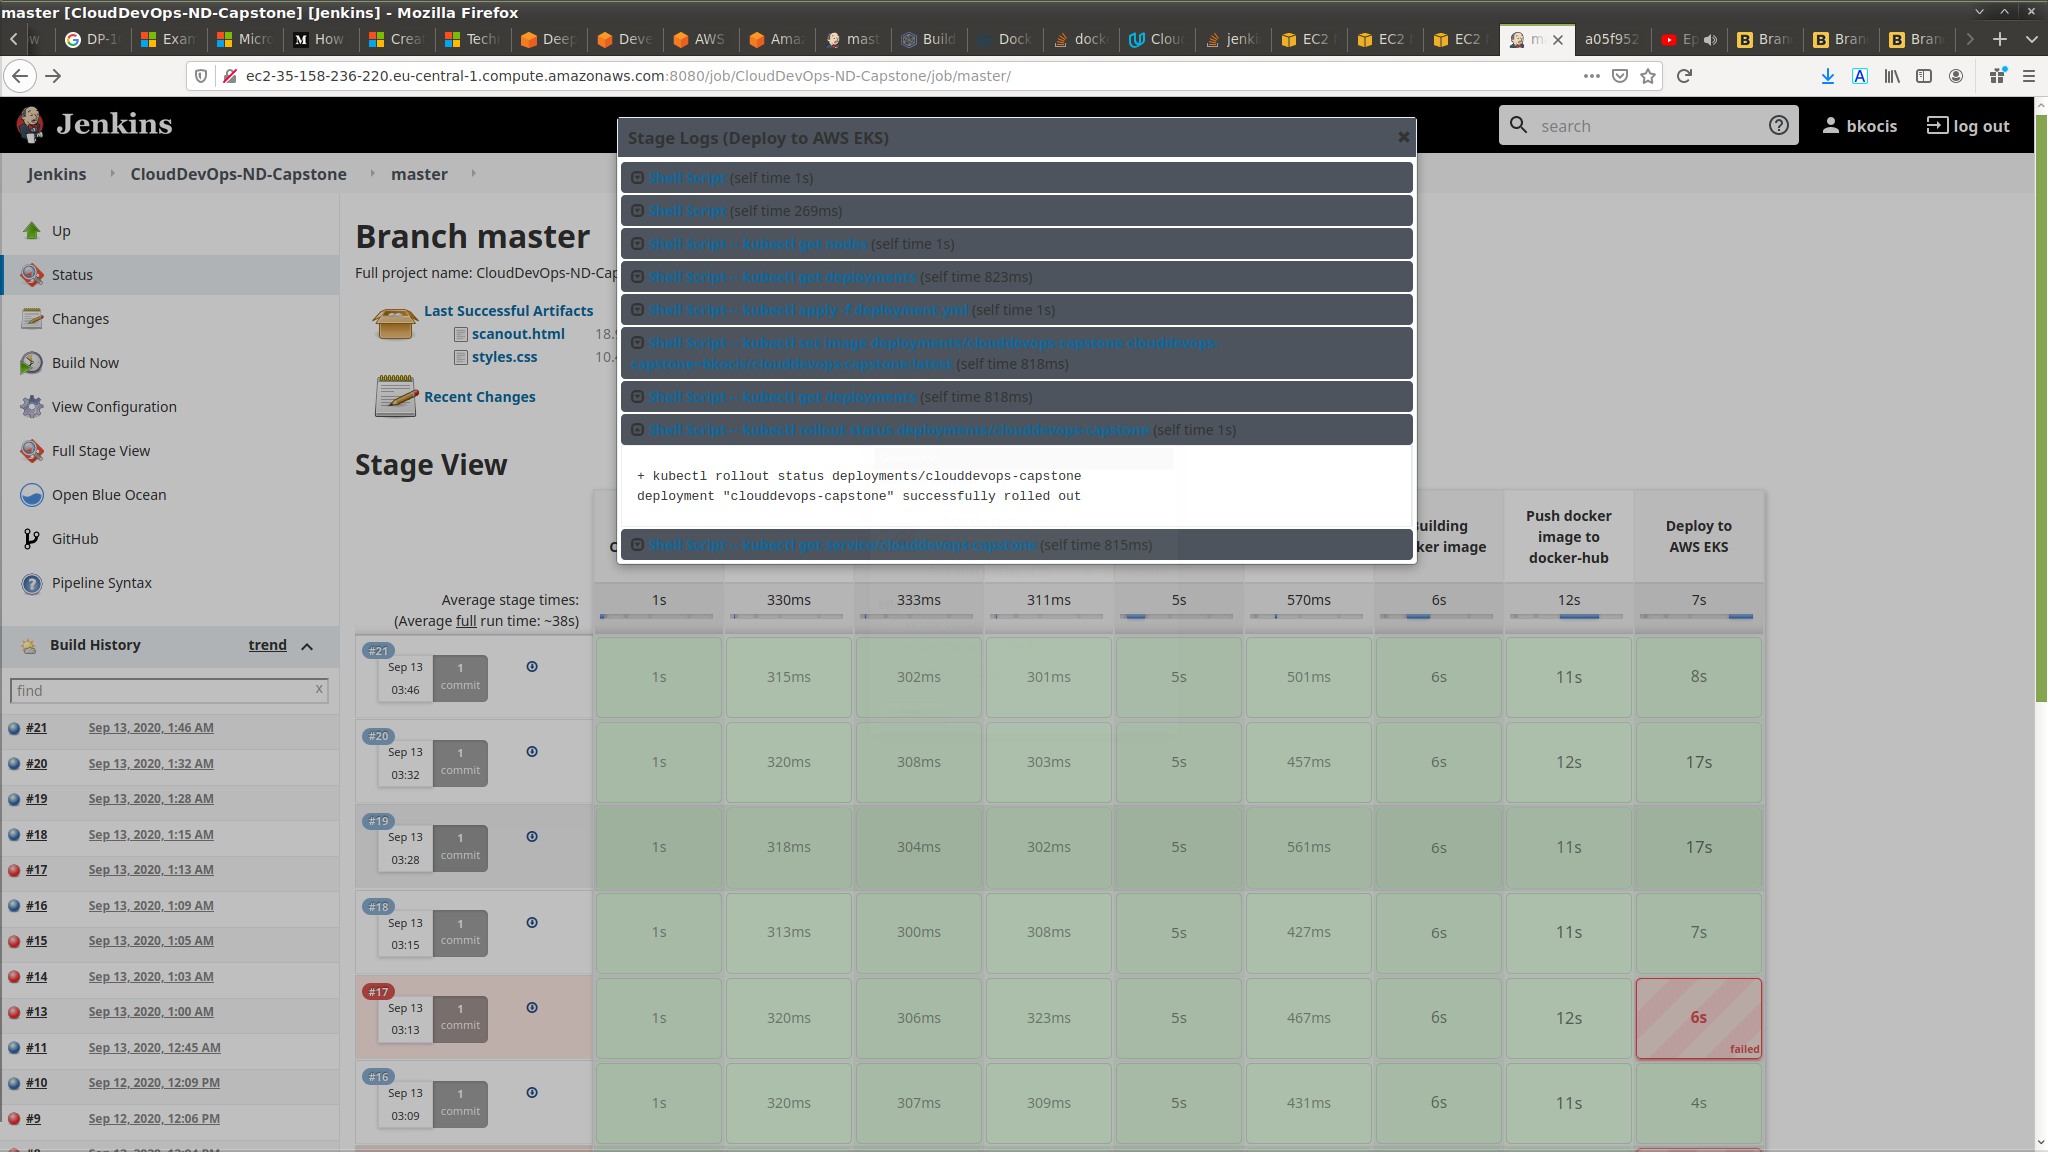
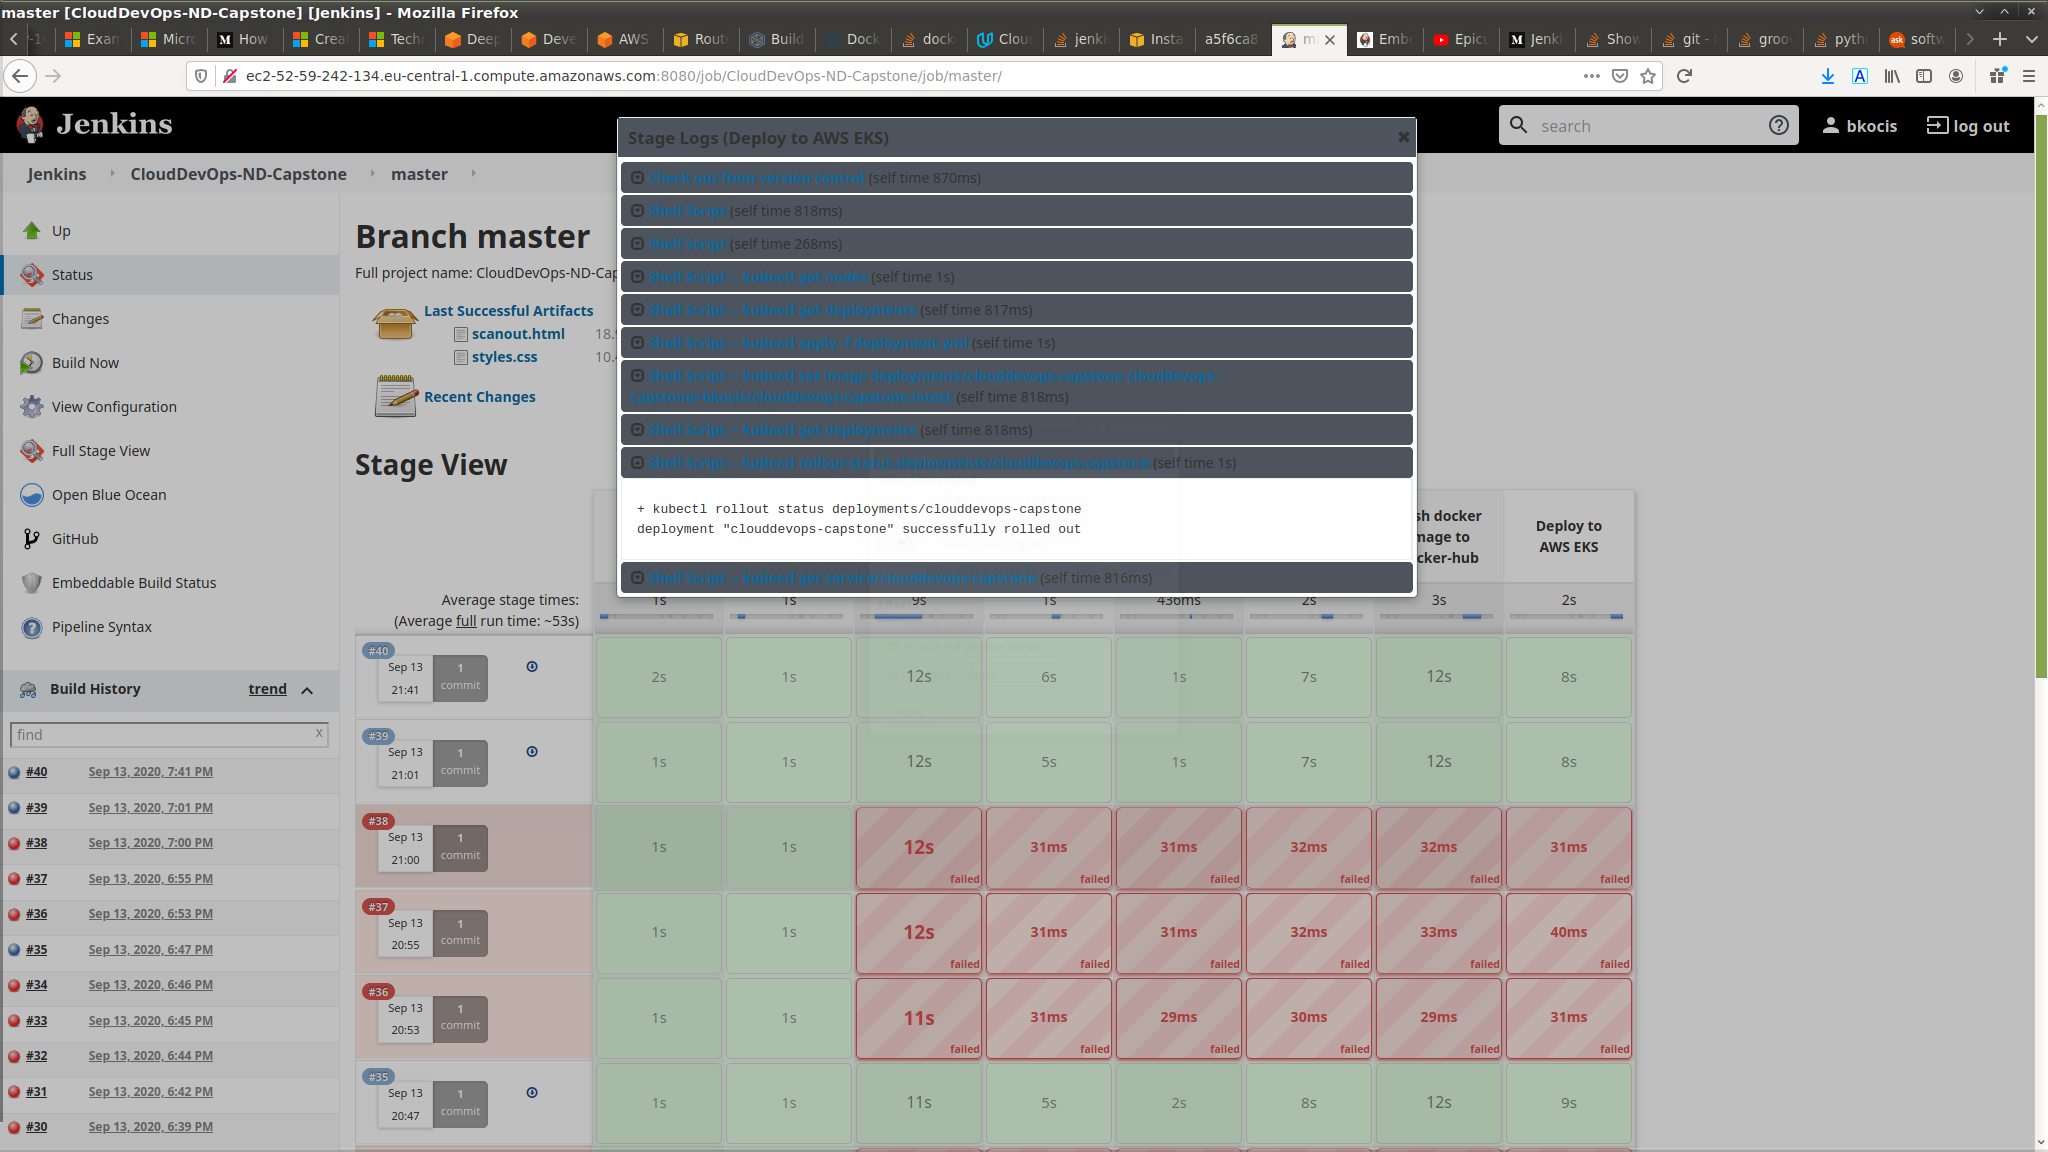
readme finalization

diff --git a/README.md b/README.md
@@ -1,9 +1,9 @@
 
-[![Build Status](http://ec2-3-127-81-170.eu-central-1.compute.amazonaws.com:8080/buildStatus/icon?job=CloudDevOps-ND-Capstone%2Fmaster)](http://ec2-3-127-81-170.eu-central-1.compute.amazonaws.com:8080/job/CloudDevOps-ND-Capstone/job/master/)
+[![Build Status](http://http://ec2-52-59-242-134.eu-central-1.compute.amazonaws.com:8080/buildStatus/icon?job=CloudDevOps-ND-Capstone%2Fmaster)](http://http://ec2-52-59-242-134.eu-central-1.compute.amazonaws.com:8080/job/CloudDevOps-ND-Capstone/job/master/)
 
-[![Build Status](http://ec2-3-127-81-170.eu-central-1.compute.amazonaws.com:8080/job/CloudDevOps-ND-Capstone/job/master/badge/icon?)](http://ec2-3-127-81-170.eu-central-1.compute.amazonaws.com:8080/job/CloudDevOps-ND-Capstone/job/master/)
+[![Build Status](http://http://ec2-52-59-242-134.eu-central-1.compute.amazonaws.com:8080/job/CloudDevOps-ND-Capstone/job/master/badge/icon?)](http://http://ec2-52-59-242-134.eu-central-1.compute.amazonaws.com:8080/job/CloudDevOps-ND-Capstone/job/master/)
 
-# Kubernetes-Docker-Jenkins-AWS deployment
+# Deploying a containerised flask app on AWS Elastic Kubernetes Service 
 
 ## Description 
 
